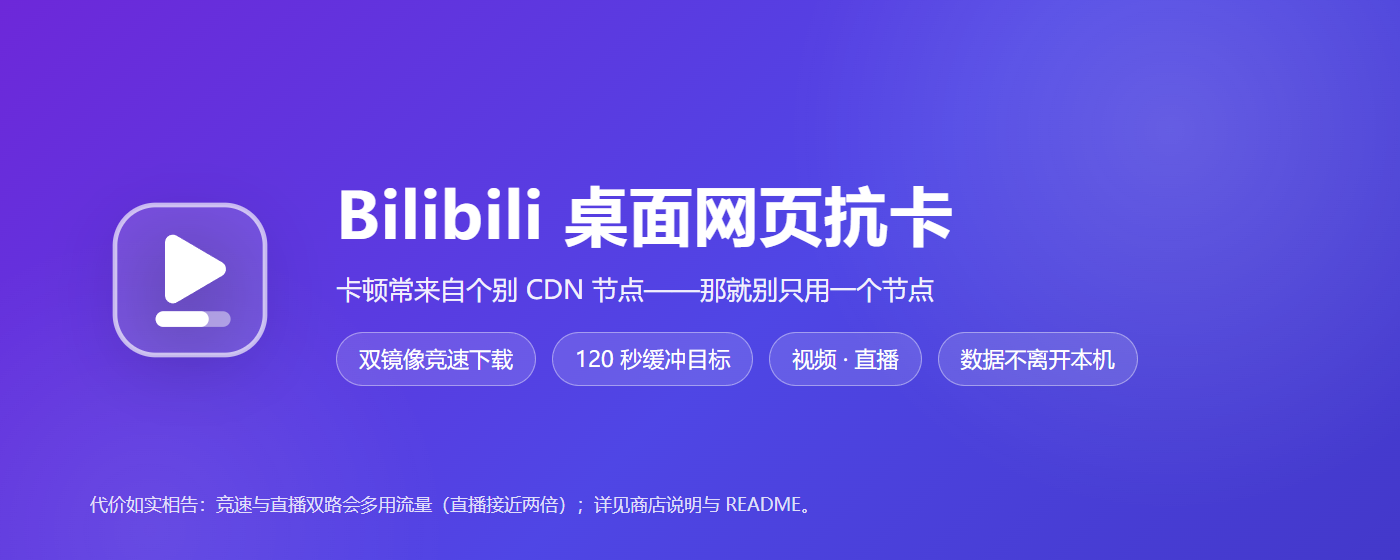
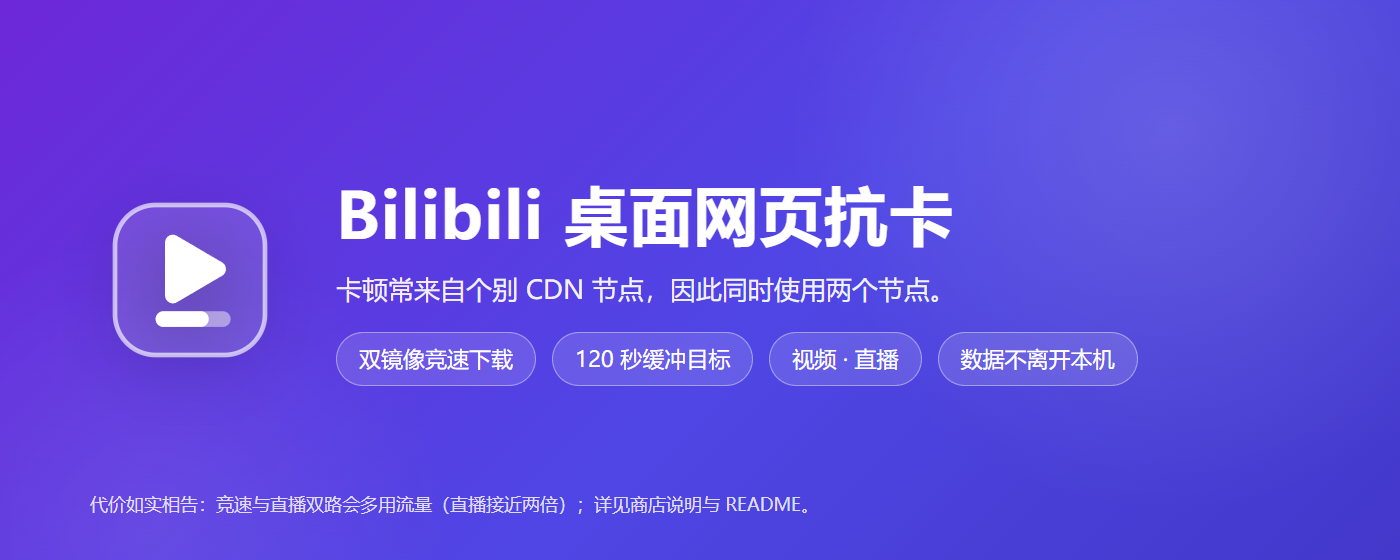
Ship whole popup close-ups and rebalance the store screenshots
The close-ups were cropped into a hard-coded 344x338 CSS box that cut the
toggle off the right edge of both popups and the log link off the bottom of
the live one; they now ship the raw capture at its full 2x size (744x828 /
744x718), so the popup is complete by construction. The 1280x800 screenshots
center a larger popup (540px) against the vertically centered caption, and
compose.mjs self-checks each render: subjects must sit inside the canvas, the
caption must not overlap the popup, and heading lines may only break at a word
boundary, which fixes the tile rendering the name as Bilibili 桌面网 / 页抗卡.
The marquee tagline and the diagram's cost note lose their dashes and are
recast as plain statements. store-images-raw/ is gitignored so raw page
captures with third-party content never enter the repo.

Why: the user uploads these images to the Chrome Web Store as they are; a
clipped popup and a mid-word broken name look broken in a public listing.

Changed region(s): [[0.4607, 0.4857, 0.6757, 0.5464]]

diff --git a/store/images/src/tile.html b/store/images/src/tile.html
@@ -12,7 +12,7 @@
     background: radial-gradient(circle, rgba(255,255,255,.16), transparent 62%); right: -130px; top: -150px; }
   .row { position: absolute; inset: 0; display: flex; align-items: center; gap: 22px; padding: 0 34px; }
   .icon { width: 108px; height: 108px; flex: none; filter: drop-shadow(0 8px 20px rgba(0,0,0,.35)); }
-  .text h1 { margin: 0 0 10px; font-size: 33px; font-weight: 700; letter-spacing: .5px; }
+  .text h1 { margin: 0 0 10px; font-size: 31px; font-weight: 700; line-height: 1.25; }
   .text p { margin: 0; font-size: 18px; line-height: 1.55; color: rgba(255,255,255,.92); }
 </style>
 </head>
@@ -21,7 +21,7 @@
   <div class="row">
     <svg class="icon" viewBox="0 0 128 128"><rect x="16" y="16" width="96" height="96" rx="26" fill="rgba(255,255,255,.14)" stroke="rgba(255,255,255,.65)" stroke-width="3"/><path d="M53 40 L53 74 L82 57 Z" fill="#FFFFFF" stroke="#FFFFFF" stroke-width="10" stroke-linejoin="round"/><rect x="42" y="84" width="48" height="10" rx="5" fill="#FFFFFF" opacity="0.45"/><rect x="42" y="84" width="34" height="10" rx="5" fill="#FFFFFF"/></svg>
     <div class="text">
-      <h1>Bilibili 桌面网页抗卡</h1>
+      <h1>Bilibili<br>桌面网页抗卡</h1>
       <p>双镜像竞速下载 · 120 秒缓冲<br>视频与直播都支持</p>
     </div>
   </div>

diff --git a/store/images/src/screenshot-live.html b/store/images/src/screenshot-live.html
@@ -13,8 +13,8 @@
     transform: scale(1.04);
   }
   .page-tint { position: absolute; inset: 0; background: linear-gradient(180deg, rgba(10,14,22,.55), rgba(10,14,22,.72)); }
-  .caption { position: absolute; left: 56px; top: 64px; color: #fff; text-shadow: 0 2px 14px rgba(0,0,0,.55); max-width: 620px; }
-  .caption h1 { margin: 0 0 14px; font-size: 44px; font-weight: 700; letter-spacing: 1px; }
+  .caption { position: absolute; left: 56px; top: 50%; transform: translateY(-50%); color: #fff; text-shadow: 0 2px 14px rgba(0,0,0,.55); max-width: 560px; }
+  .caption h1 { margin: 0 0 14px; font-size: 40px; font-weight: 700; letter-spacing: 1px; }
   .caption p { margin: 0; font-size: 22px; line-height: 1.6; color: rgba(255,255,255,.92); }
   .caption .pill {
     display: inline-block; margin-top: 22px; padding: 8px 16px; border-radius: 999px;
@@ -22,9 +22,9 @@
     font-size: 18px; color: #fff;
   }
   .popup {
-    position: absolute; right: 64px; top: 74px;
-    width: 460px;
-    border-radius: 14px;
+    position: absolute; right: 64px; top: 50%; transform: translateY(-50%);
+    width: 540px;
+    border-radius: 16px;
     box-shadow: 0 24px 70px rgba(0,0,0,.55), 0 0 0 1px rgba(255,255,255,.18);
     overflow: hidden;
   }

diff --git a/store/images/src/screenshot-video.html b/store/images/src/screenshot-video.html
@@ -13,8 +13,8 @@
     transform: scale(1.04);
   }
   .page-tint { position: absolute; inset: 0; background: linear-gradient(180deg, rgba(10,14,22,.55), rgba(10,14,22,.72)); }
-  .caption { position: absolute; left: 56px; top: 64px; color: #fff; text-shadow: 0 2px 14px rgba(0,0,0,.55); max-width: 620px; }
-  .caption h1 { margin: 0 0 14px; font-size: 44px; font-weight: 700; letter-spacing: 1px; }
+  .caption { position: absolute; left: 56px; top: 50%; transform: translateY(-50%); color: #fff; text-shadow: 0 2px 14px rgba(0,0,0,.55); max-width: 560px; }
+  .caption h1 { margin: 0 0 14px; font-size: 40px; font-weight: 700; letter-spacing: 1px; }
   .caption p { margin: 0; font-size: 22px; line-height: 1.6; color: rgba(255,255,255,.92); }
   .caption .pill {
     display: inline-block; margin-top: 22px; padding: 8px 16px; border-radius: 999px;
@@ -22,9 +22,9 @@
     font-size: 18px; color: #fff;
   }
   .popup {
-    position: absolute; right: 64px; top: 74px;
-    width: 460px;
-    border-radius: 14px;
+    position: absolute; right: 64px; top: 50%; transform: translateY(-50%);
+    width: 540px;
+    border-radius: 16px;
     box-shadow: 0 24px 70px rgba(0,0,0,.55), 0 0 0 1px rgba(255,255,255,.18);
     overflow: hidden;
   }

diff --git a/store/images/src/marquee.html b/store/images/src/marquee.html
@@ -30,7 +30,7 @@
     <svg class="icon" viewBox="0 0 128 128"><rect x="16" y="16" width="96" height="96" rx="26" fill="rgba(255,255,255,.14)" stroke="rgba(255,255,255,.65)" stroke-width="3"/><path d="M53 40 L53 74 L82 57 Z" fill="#FFFFFF" stroke="#FFFFFF" stroke-width="10" stroke-linejoin="round"/><rect x="42" y="84" width="48" height="10" rx="5" fill="#FFFFFF" opacity="0.45"/><rect x="42" y="84" width="34" height="10" rx="5" fill="#FFFFFF"/></svg>
     <div class="text">
       <h1>Bilibili 桌面网页抗卡</h1>
-      <p class="tag">卡顿常来自个别 CDN 节点——那就别只用一个节点</p>
+      <p class="tag">卡顿常来自个别 CDN 节点，因此同时使用两个节点。</p>
       <div class="chips">
         <span class="chip">双镜像竞速下载</span>
         <span class="chip">120 秒缓冲目标</span>

diff --git a/store/images/src/diagram.html b/store/images/src/diagram.html
@@ -76,7 +76,7 @@
         </div>
         <div class="mirror lose">
           <h3>镜像 B（落败）</h3>
-          <p>已读字节丢弃 —— 竞速的流量代价（一次实测稳态约 12.6%）</p>
+          <p>已读字节丢弃，这是竞速的流量代价（一次实测稳态约 12.6%）</p>
         </div>
       </div>
     </div>

diff --git a/store/images/README.md b/store/images/README.md
@@ -10,13 +10,13 @@
 | `screenshot-03-racing-diagram.png` | 1280×800 | 机制示意图：双镜像竞速、120 秒缓冲、流量代价 |
 | `promo-tile-440x280.png` | 440×280 | 小型宣传图（必需项） |
 | `marquee-1400x560.png` | 1400×560 | Marquee 宣传图（可选项） |
-| `popup-video.png` / `popup-live.png` | 688×676 | 弹窗特写原图（README 复用；2× 设备像素） |
+| `popup-video.png` / `popup-live.png` | 744×828 / 744×718 | 弹窗特写原图（README 复用；2× 设备像素，完整弹窗：标题行开关、全部卡片、日志链接都在画内） |
 
 ## 再生步骤
 
-1. 用捕获脚本得到原始截图到仓库根的 `store-images-raw/`（不提交：页面截图含第三方内容）：
+1. 用捕获脚本得到原始截图到仓库根的 `store-images-raw/`（不提交，已在仓库 .gitignore 中忽略：页面截图含第三方内容）：
    需要 `video-popup-light.png`、`live-popup-light.png`、`video-page.png`、`live-page.png` 与 `report.json`。
-2. `node store/images/src/compose.mjs` → 裁切弹窗特写并渲染上表全部 PNG。
+2. `node store/images/src/compose.mjs` → 弹窗特写按原始捕获的完整尺寸原样导出（不做裁切），并渲染上表全部 PNG。
 3. 文案修改直接改 `src/*.html`（截图说明语在 HTML 里；直播说明语按 `report.json` 的实际接管状态自动插值）。
 
 ## 捕获来源（2026-09-28）
